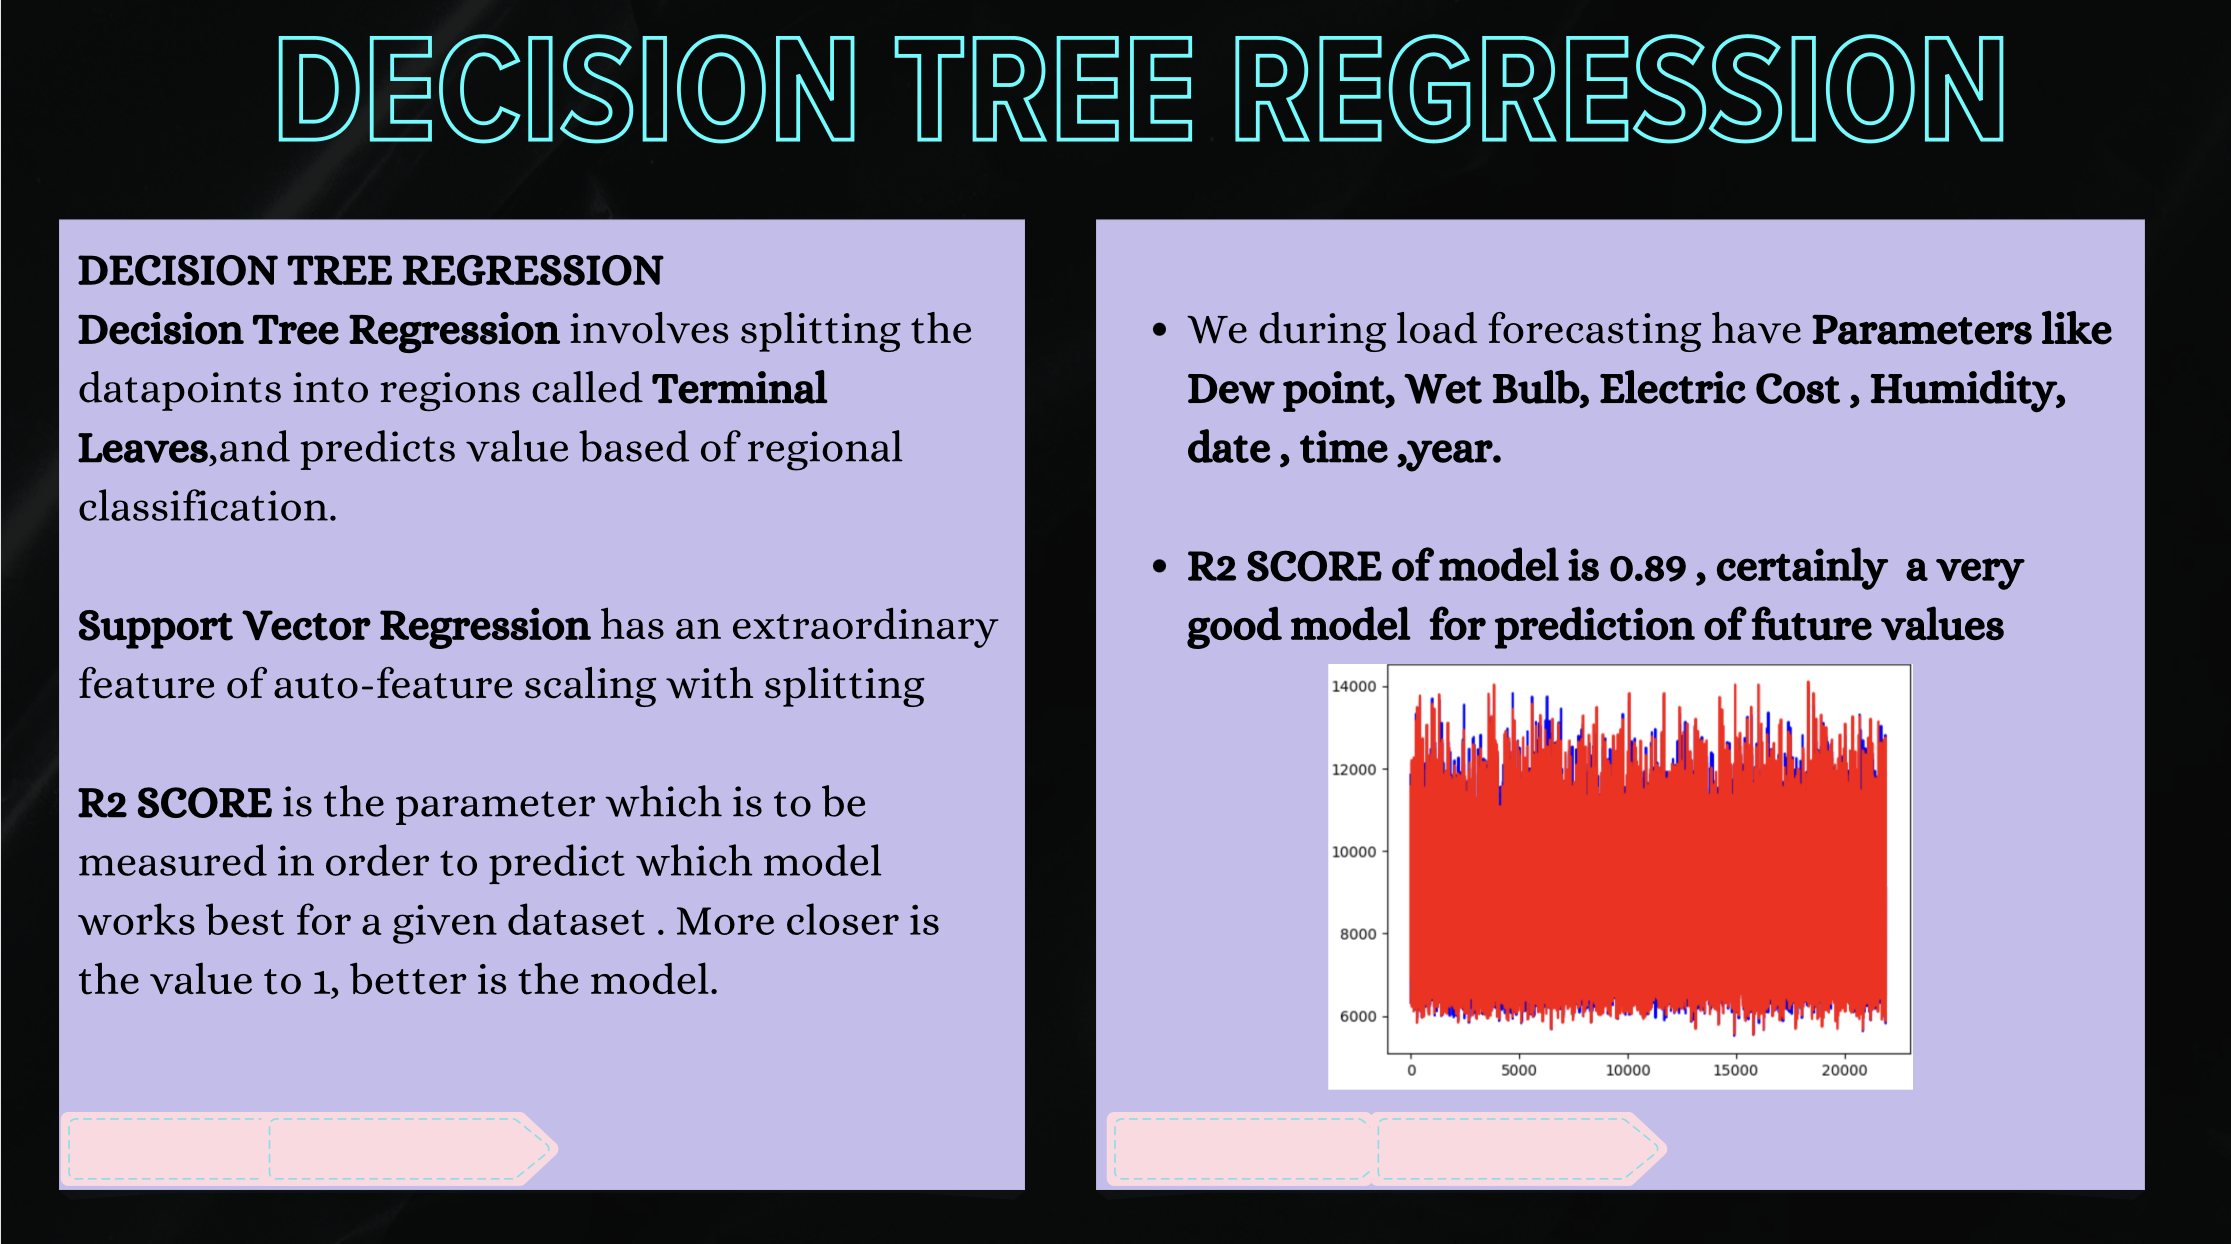
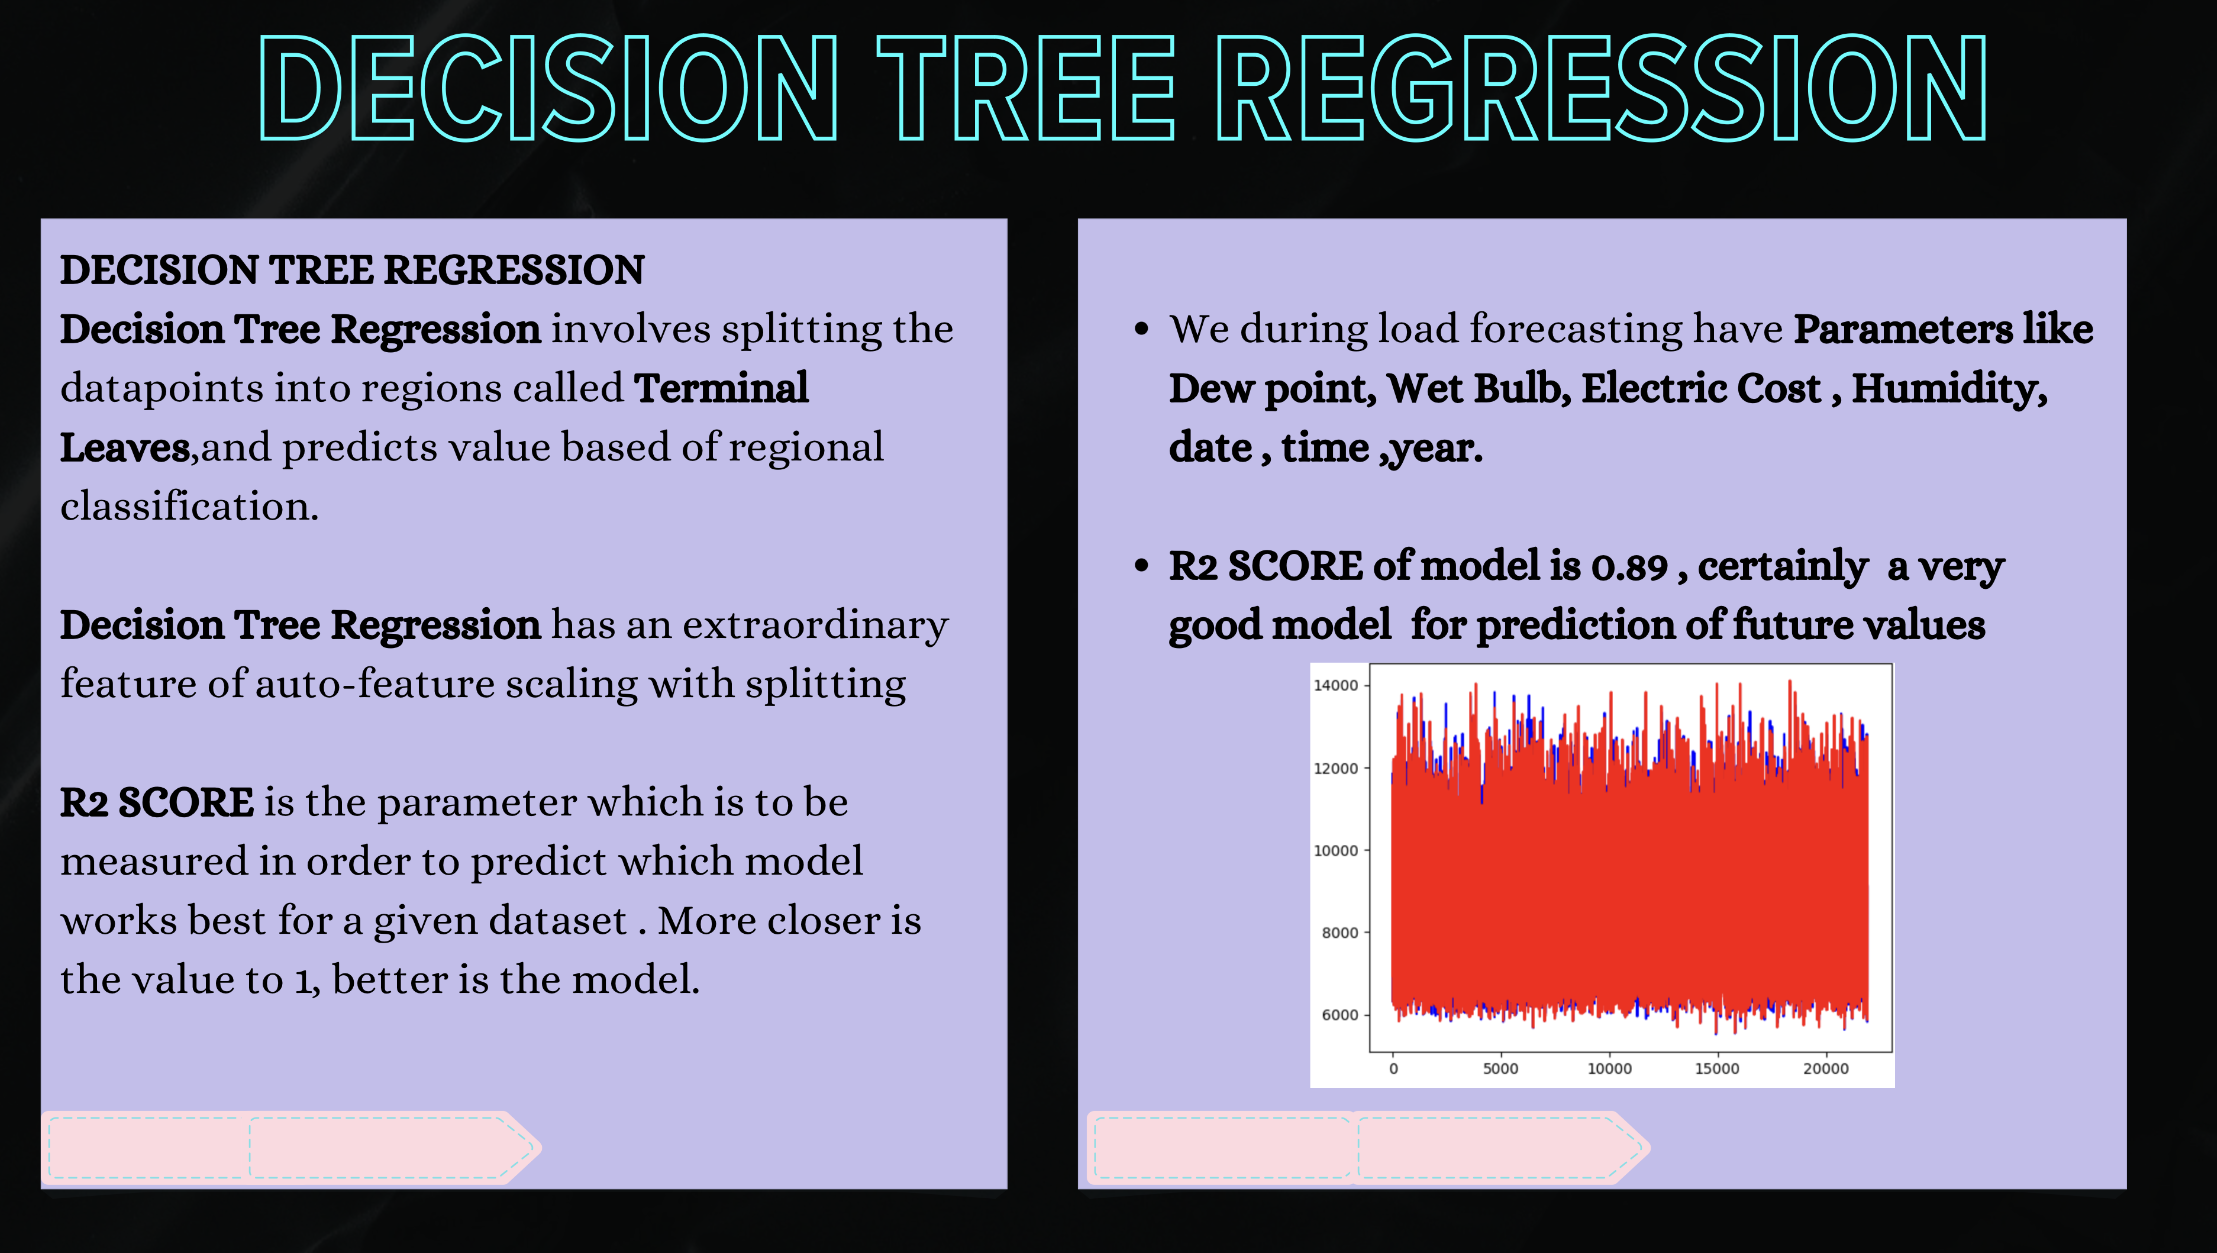
DTR

Changed region(s): [[0.0, 0.1527, 0.9648, 0.9775], [0.1245, 0.0305, 0.9026, 0.1222], [0.498, 0.1527, 0.9648, 0.1833]]

diff --git a/src/App.js b/src/App.js
@@ -6,6 +6,7 @@ import M2 from './M2';
 import M3 from './M3'; 
 import MLR from './MultiLinear';
 import Front from './Front';
+import F4 from './F4';
 import './App.css';
 
 function App() {
@@ -33,6 +34,9 @@ function App() {
        <br/>
        <br/>
        <M3></M3>
+       <br></br>
+       <br/>
+       <F4></F4>
     </div>
   );
 }

diff --git a/src/F4.js b/src/F4.js
@@ -1,0 +1,10 @@
+import DTR from './DTR.png'
+import './f1.css'
+ function F4(){
+    return(
+        <div className='f1'>
+            <img src={DTR} alt="logo" />
+        </div>
+    )
+ }
+ export default F4;
